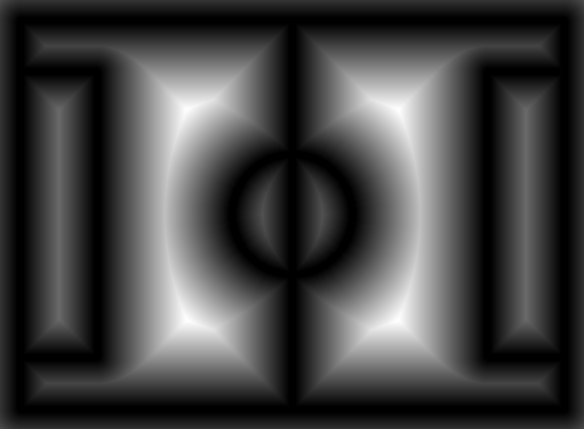
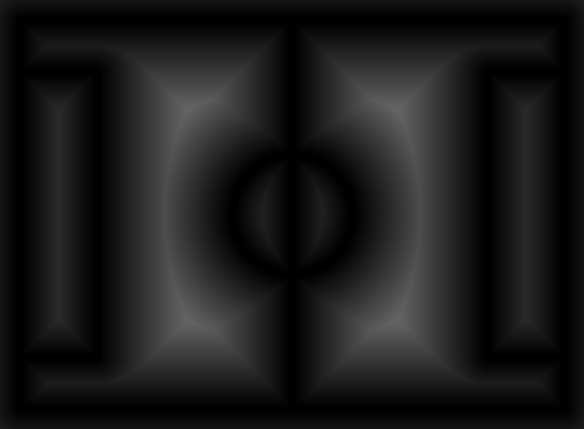
Fix demo area + line map range

diff --git a/src/lib/soccer_field_map_generator/soccer_field_map_generator/soccer_field_map_generator/generator.py b/src/lib/soccer_field_map_generator/soccer_field_map_generator/soccer_field_map_generator/generator.py
@@ -67,7 +67,7 @@ def drawDistance(image, decay_factor):
     return cv2.normalize(
         distance_map,
         None,
-        alpha=0,
+        alpha=155,
         beta=255,
         norm_type=cv2.NORM_MINMAX,
         dtype=cv2.CV_64F,
